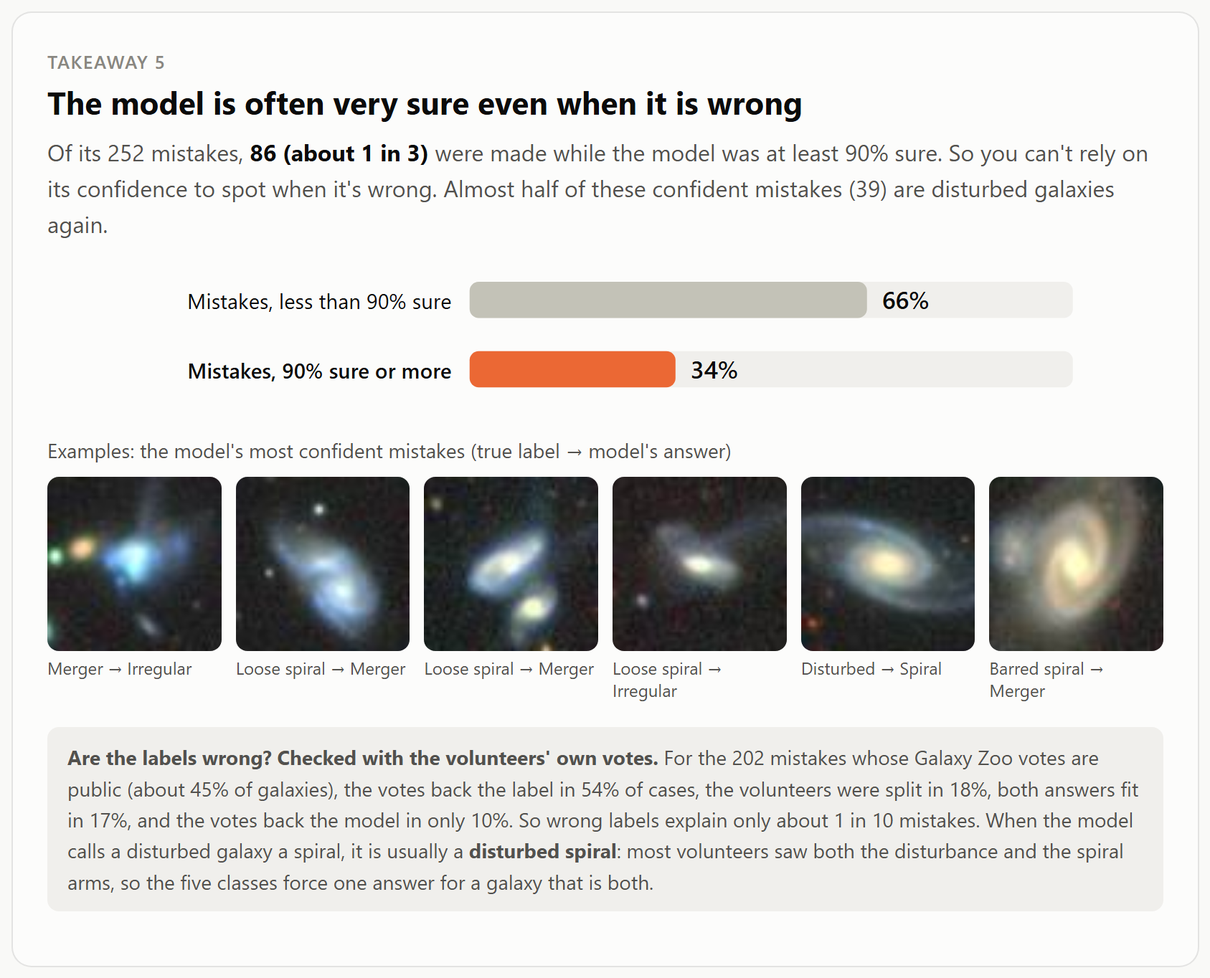
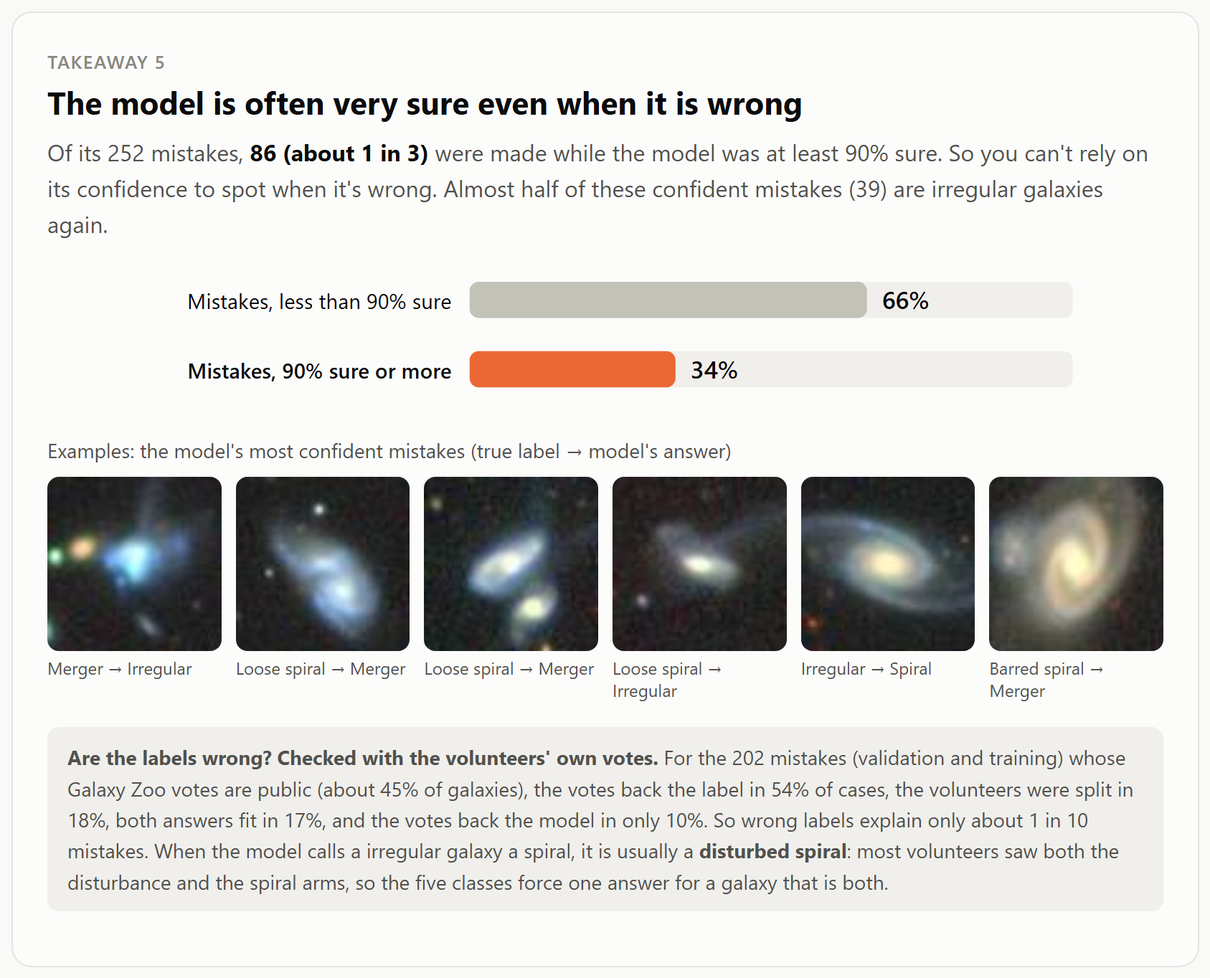
disturbed to irregular changes

Changed region(s): [[0.0616, 0.7698, 0.9555, 0.9238], [0.7706, 0.1848, 0.9247, 0.2155], [0.6473, 0.6774, 0.7706, 0.7082]]

diff --git a/ai_aided/vis/findings.html b/ai_aided/vis/findings.html
@@ -79,10 +79,10 @@ svg text { fill: var(--ink-2); font-size: 14px; }
 
   <section class="card">
     <div class="num">Takeaway 1</div>
-    <h2>The model often fails to recognise disturbed galaxies</h2>
+    <h2>The model often fails to recognise irregular galaxies</h2>
     <p class="say" id="t1-say"></p>
     <div id="t1-chart"></div>
-    <p class="ex-t">Examples: disturbed galaxies the model got wrong</p>
+    <p class="ex-t">Examples: irregular galaxies the model got wrong</p>
     <div class="ex" id="t1-ex"></div>
   </section>
 
@@ -99,10 +99,10 @@ svg text { fill: var(--ink-2); font-size: 14px; }
 
   <section class="card">
     <div class="num">Takeaway 3 <span class="tag">tested by editing images</span></div>
-    <h2>Small, harmless changes flip the answer for disturbed galaxies</h2>
+    <h2>Small, harmless changes flip the answer for irregular galaxies</h2>
     <p class="say" id="t3-say"></p>
     <div id="t3-chart"></div>
-    <p class="ex-t">Examples: the same disturbed galaxy, just rotated by 90°</p>
+    <p class="ex-t">Examples: the same irregular galaxy, just rotated by 90°</p>
     <div class="pairs" id="t3-ex"></div>
   </section>
 
@@ -120,7 +120,7 @@ svg text { fill: var(--ink-2); font-size: 14px; }
     <div id="t5-chart"></div>
     <p class="ex-t">Examples: the model's most confident mistakes (true label → model's answer)</p>
     <div class="ex" id="t5-ex"></div>
-    <p class="note"><b>Are the labels wrong? Checked with the volunteers' own votes.</b> For the 202 mistakes (validation and training) whose Galaxy Zoo votes are public (about 45% of galaxies), the votes back the label in 54% of cases, the volunteers were split in 18%, both answers fit in 17%, and the votes back the model in only 10%. So wrong labels explain only about 1 in 10 mistakes. When the model calls a disturbed galaxy a spiral, it is usually a <b>disturbed spiral</b>: most volunteers saw both the disturbance and the spiral arms, so the five classes force one answer for a galaxy that is both.</p>
+    <p class="note"><b>Are the labels wrong? Checked with the volunteers' own votes.</b> For the 202 mistakes (validation and training) whose Galaxy Zoo votes are public (about 45% of galaxies), the votes back the label in 54% of cases, the volunteers were split in 18%, both answers fit in 17%, and the votes back the model in only 10%. So wrong labels explain only about 1 in 10 mistakes. When the model calls a irregular galaxy a spiral, it is usually a <b>disturbed spiral</b>: most volunteers saw both the disturbance and the spiral arms, so the five classes force one answer for a galaxy that is both.</p>
   </section>
 
   <section class="card">
@@ -140,7 +140,7 @@ svg text { fill: var(--ink-2); font-size: 14px; }
     <h2>What does <i>not</i> confuse the model</h2>
     <p class="say">Some things looked like they might matter, so we changed them on purpose. The answers barely moved.</p>
     <div class="nope" id="t6"></div>
-    <p class="note">Colour is the important one: in the real images, red disturbed galaxies <i>are</i> called Elliptical far more often than blue ones, so it looked like the model judges by colour. The test shows it doesn't. The volunteers do call red disturbed galaxies “smooth” more often than blue ones (37% vs 28%), so a smoother shape, not the colour itself, is the likely reason.</p>
+    <p class="note">Colour is the important one: in the real images, red irregular galaxies <i>are</i> called Elliptical far more often than blue ones, so it looked like the model judges by colour. The test shows it doesn't. The volunteers do call red irregular galaxies “smooth” more often than blue ones (37% vs 28%), so a smoother shape, not the colour itself, is the likely reason.</p>
   </section>
 
   <p class="foot">Data: Galaxy10 DECals validation images (not used for training). "Tested by editing images": we changed one thing in the images (size, blur, colour, shape, rotation, position or neighbours) and ran the model again on the same galaxies (705 and 1,115 galaxies in two tests). Numbers are calculated live from the model's predictions. For details, open explorer.html.</p>
@@ -160,7 +160,7 @@ const BY = new Map(R.map(d => [d.idx, d]));
 const ok = d => d.pred === d.l5, $ = id => document.getElementById(id);
 const pct = v => { const p = 100 * v; return (p > 0 && p < 2 ? p.toFixed(1) : Math.round(p)) + "%"; };
 const share = (arr, f) => arr.length ? arr.filter(f).length / arr.length : 0;
-const NICE = { 0: "Disturbed", 1: "Merger", 2: "Round elliptical", 3: "Elliptical", 4: "Cigar elliptical", 5: "Barred spiral",
+const NICE = { 0: "Irregular", 1: "Merger", 2: "Round elliptical", 3: "Elliptical", 4: "Cigar elliptical", 5: "Barred spiral",
   6: "Spiral", 7: "Loose spiral", 8: "Edge-on disk", 9: "Edge-on disk" };
 
 // edited-image tests: one object per galaxy, {edit: prediction}
@@ -195,16 +195,16 @@ function bars(id, rows, max = 1) {
   $(id).innerHTML = s + "</svg>";
 }
 
-$("lede").textContent = `We tested the galaxy classifier on ${VAL.length.toLocaleString()} galaxy images it had not been trained on. Overall it is right ${pct(share(VAL, ok))} of the time, the same as the author reports. But that single number hides seven important things about how it behaves.`;
+$("lede").textContent = `We tested the galaxy classifier on ${VAL.length.toLocaleString()} galaxy images it had not been trained on. Overall it is right ${pct(share(VAL, ok))} of the time, the same as the author reports. (The model's class “Irregular” is called “Disturbed” in the original Galaxy10 labels.) But that single number hides seven important things about how it behaves.`;
 
-// ---------- 1: disturbed galaxies ----------
+// ---------- 1: irregular galaxies ----------
 {
   const dist = VAL.filter(d => d.l10 === 0), rest = VAL.filter(d => d.l10 !== 0);
   bars("t1-chart", [
     { label: "All other galaxy types", v: share(rest, ok) },
-    { label: "Disturbed galaxies", v: share(dist, ok), hi: true },
+    { label: "Irregular galaxies", v: share(dist, ok), hi: true },
   ]);
-  $("t1-say").innerHTML = `It recognises <b>only ${pct(share(dist, ok))}</b> of disturbed galaxies, compared with ${pct(share(rest, ok))} for all other types. When it gets them wrong, it mostly calls them <b>Spiral (${pct(share(dist, d => d.pred === 0))})</b> or <b>Elliptical (${pct(share(dist, d => d.pred === 1))})</b>.`;
+  $("t1-say").innerHTML = `It recognises <b>only ${pct(share(dist, ok))}</b> of irregular galaxies, compared with ${pct(share(rest, ok))} for all other types. When it gets them wrong, it mostly calls them <b>Spiral (${pct(share(dist, d => d.pred === 0))})</b> or <b>Elliptical (${pct(share(dist, d => d.pred === 1))})</b>.`;
   const wrong = dist.filter(d => !ok(d)).sort((a, b) => b.conf - a.conf);
   examples("t1-ex", [...wrong.filter(d => d.pred === 0).slice(0, 3), ...wrong.filter(d => d.pred === 1).slice(0, 3)], d => `called ${C5[d.pred]}`);
 }
@@ -218,7 +218,7 @@ $("lede").textContent = `We tested the galaxy classifier on ${VAL.length.toLocal
     { label: "Spirals, blurred (same size)", v: E(sp2, "blur"), hi: true },
   ], 0.5);
   const dist = VAL.filter(d => d.l10 === 0 && d.q[1] != null).sort((a, b) => a.q[1] - b.q[1]), cut = Math.round(dist.length * 0.4);
-  $("t2-say").innerHTML = `In the real images, small disturbed galaxies are called Elliptical much more often than large ones (${pct(share(dist.slice(0, cut), d => d.pred === 1))} vs ${pct(share(dist.slice(cut), d => d.pred === 1))}). To find the cause, we edited the same spirals. <b>Shrinking</b> them, or just <b>blurring</b> them at the same size, makes the model call them Elliptical far more often (chart). So the cause is the <b>loss of detail</b>, not the size itself. Real ellipticals stay ellipticals (${pct(share(of(T1, 1), t => t.shrink === 1))} after shrinking).`;
+  $("t2-say").innerHTML = `In the real images, small irregular galaxies are called Elliptical much more often than large ones (${pct(share(dist.slice(0, cut), d => d.pred === 1))} vs ${pct(share(dist.slice(cut), d => d.pred === 1))}). To find the cause, we edited the same spirals. <b>Shrinking</b> them, or just <b>blurring</b> them at the same size, makes the model call them Elliptical far more often (chart). So the cause is the <b>loss of detail</b>, not the size itself. Real ellipticals stay ellipticals (${pct(share(of(T1, 1), t => t.shrink === 1))} after shrinking).`;
   pairs("t2-ex1", "shrink", "unchanged", "shrunk");
   pairs("t2-ex2", "blur", "unchanged", "blurred");
 }
@@ -229,13 +229,13 @@ $("lede").textContent = `We tested the galaxy classifier on ${VAL.length.toLocal
   const ch = (arr, k) => share(arr, t => t[k] !== t.original);
   bars("t3-chart", [
     { label: "Rotated 90° · spirals & ellipticals", v: ch(others1, "rot90") },
-    { label: "Rotated 90° · disturbed", v: ch(of(T1, 3), "rot90"), hi: true, gap: true },
+    { label: "Rotated 90° · irregular", v: ch(of(T1, 3), "rot90"), hi: true, gap: true },
     { label: "Moved off-centre · spirals & ellipticals", v: ch(others2, "shift") },
-    { label: "Moved off-centre · disturbed", v: ch(of(T2, 3), "shift"), hi: true, gap: true },
+    { label: "Moved off-centre · irregular", v: ch(of(T2, 3), "shift"), hi: true, gap: true },
     { label: "Blurred · spirals & ellipticals", v: ch(others2, "blur") },
-    { label: "Blurred · disturbed", v: ch(of(T2, 3), "blur"), hi: true },
+    { label: "Blurred · irregular", v: ch(of(T2, 3), "blur"), hi: true },
   ], 0.5);
-  $("t3-say").innerHTML = `A galaxy is still the same galaxy when the picture is rotated or moved, and the model was even trained on rotated images. Still, these small changes <b>flip the answer for many disturbed galaxies</b>: ${pct(ch(of(T1, 3), "rot90"))} after rotating and ${pct(ch(of(T2, 3), "shift"))} after moving, far more than for spirals and ellipticals (chart: share of answers that change). For disturbed galaxies the model is unsure and close to a tipping point: the ones whose answer flips when rotated were already unsure (median confidence 70%, against 94% for those that stay the same).`;
+  $("t3-say").innerHTML = `A galaxy is still the same galaxy when the picture is rotated or moved, and the model was even trained on rotated images. Still, these small changes <b>flip the answer for many irregular galaxies</b>: ${pct(ch(of(T1, 3), "rot90"))} after rotating and ${pct(ch(of(T2, 3), "shift"))} after moving, far more than for spirals and ellipticals (chart: share of answers that change). For irregular galaxies the model is unsure and close to a tipping point: the ones whose answer flips when rotated were already unsure (median confidence 70%, against 94% for those that stay the same).`;
   pairs("t3-ex", "rotate", "original", "rotated 90°");
 }
 
@@ -244,14 +244,14 @@ $("lede").textContent = `We tested the galaxy classifier on ${VAL.length.toLocal
   const acc = (arr, f) => share(arr.filter(f), ok);
   const rare = [0, 4], common = d => !rare.includes(d.l10);
   bars("t4-chart", [
-    { label: "Disturbed · training images", v: acc(TR, d => d.l10 === 0) },
-    { label: "Disturbed · new images", v: acc(VAL, d => d.l10 === 0), hi: true, gap: true },
+    { label: "Irregular · training images", v: acc(TR, d => d.l10 === 0) },
+    { label: "Irregular · new images", v: acc(VAL, d => d.l10 === 0), hi: true, gap: true },
     { label: "Cigar ellipticals · training images", v: acc(TR, d => d.l10 === 4) },
     { label: "Cigar ellipticals · new images", v: acc(VAL, d => d.l10 === 4), hi: true, gap: true },
     { label: "All other types · training images", v: acc(TR, common) },
     { label: "All other types · new images", v: acc(VAL, common) },
   ]);
-  $("t4-say").innerHTML = `For most galaxy types, the model does about as well on new images as on the images it was trained on. For the two <b>rarest</b> types it doesn't: disturbed galaxies drop from <b>${pct(acc(TR, d => d.l10 === 0))} to ${pct(acc(VAL, d => d.l10 === 0))}</b>, cigar-shaped ellipticals from ${pct(acc(TR, d => d.l10 === 4))} to ${pct(acc(VAL, d => d.l10 === 4))} (chart: share correct). This looks like memorisation: the model seems to have remembered the few examples it saw rather than learned what these galaxies look like. Their rarity may be one reason, but we can't prove that without retraining the model. Even on its training images it gets ${pct(1 - acc(TR, d => d.l10 === 0))} of disturbed galaxies wrong, and the volunteers' votes show why: many of them are spirals that are also disturbed, so two answers fit.`;
+  $("t4-say").innerHTML = `For most galaxy types, the model does about as well on new images as on the images it was trained on. For the two <b>rarest</b> types it doesn't: irregular galaxies drop from <b>${pct(acc(TR, d => d.l10 === 0))} to ${pct(acc(VAL, d => d.l10 === 0))}</b>, cigar-shaped ellipticals from ${pct(acc(TR, d => d.l10 === 4))} to ${pct(acc(VAL, d => d.l10 === 4))} (chart: share correct). This looks like memorisation: the model seems to have remembered the few examples it saw rather than learned what these galaxies look like. Their rarity may be one reason, but we can't prove that without retraining the model. Even on its training images it gets ${pct(1 - acc(TR, d => d.l10 === 0))} of irregular galaxies wrong, and the volunteers' votes show why: many of them are spirals that are also disturbed, so two answers fit.`;
 }
 
 // ---------- 5: confident mistakes ----------
@@ -261,7 +261,7 @@ $("lede").textContent = `We tested the galaxy classifier on ${VAL.length.toLocal
     { label: "Mistakes, less than 90% sure", v: 1 - sure.length / wrong.length },
     { label: "Mistakes, 90% sure or more", v: sure.length / wrong.length, hi: true },
   ]);
-  $("t5-say").innerHTML = `Of its ${wrong.length} mistakes, <b>${sure.length} (about 1 in 3)</b> were made while the model was at least 90% sure. So you can't rely on its confidence to spot when it's wrong. Almost half of these confident mistakes (${sure.filter(d => d.l10 === 0).length}) are disturbed galaxies again.`;
+  $("t5-say").innerHTML = `Of its ${wrong.length} mistakes, <b>${sure.length} (about 1 in 3)</b> were made while the model was at least 90% sure. So you can't rely on its confidence to spot when it's wrong. Almost half of these confident mistakes (${sure.filter(d => d.l10 === 0).length}) are irregular galaxies again.`;
   examples("t5-ex", sure.sort((a, b) => b.conf - a.conf).slice(0, 6), d => `${NICE[d.l10]} → ${C5[d.pred]}`);
 }
 
@@ -281,8 +281,8 @@ $("lede").textContent = `We tested the galaxy classifier on ${VAL.length.toLocal
   });
   $("m-map").innerHTML = s + "</svg>";
   $("m-legend").innerHTML = `<span><i style="background:var(--base)"></i>correct</span><span><i style="background:var(--hi)"></i>mistake</span><span>Each dot is one galaxy. Galaxies close together got similar answers from the model.</span>`;
-  const nice = n => n.kind === "bridge" ? "Torn between " + n.label.replace(" ↔ ", " and ").replace("Irregular", "Disturbed")
-    : n.label.replace(" Irregular hidden among Spiral", " are disturbed galaxies hidden among spirals");
+  const nice = n => n.kind === "bridge" ? "Torn between " + n.label.replace(" ↔ ", " and ")
+    : n.label.replace(" Irregular hidden among Spiral", " are irregular galaxies hidden among spirals");
   const nums = kind => MD.notes.map((n, i) => n.kind === kind ? i + 1 : null).filter(Boolean).join(", ");
   $("m-regions").innerHTML = MD.notes.map((n, i) => { const r = regs.get(n.id);
     return `<div><span class="badge">${i + 1}</span><span><b>${nice(n)}</b><br>${r.n} galaxies · ${pct(r.err)} wrong · model ${pct(n.conf)} sure on average</span></div>`; }).join("");
@@ -292,10 +292,10 @@ $("lede").textContent = `We tested the galaxy classifier on ${VAL.length.toLocal
   const pairCount = {};
   unsure.forEach(d => { const o = d.p.map((v, i) => [v, i]).sort((a, b) => b[0] - a[0]); const k = [o[0][1], o[1][1]].sort().map(i => C5[i]).join(" / "); pairCount[k] = (pairCount[k] || 0) + 1; });
   const top = Object.entries(pairCount).sort((a, b) => b[1] - a[1]).slice(0, 5);
-  bars("m-pairs", top.map(([k, n], i) => ({ label: k.replace("Irregular", "Disturbed"), v: n / unsure.length, hi: k.includes("Spiral") })), 0.3);
+  bars("m-pairs", top.map(([k, n], i) => ({ label: k, v: n / unsure.length, hi: k.includes("Spiral") })), 0.3);
   const wrong = pts.filter(d => !ok(d));
-  $("m-say").innerHTML = `This map places every galaxy by the model's answer: galaxies close together got similar answers. Most of the map is made of <b>dense islands where the model is completely sure and almost never wrong</b>. The mistakes (orange) sit in two kinds of places: on <b>bridges between two islands</b>, where the model is torn between two classes (${nums("bridge")}), and in <b>groups hidden inside the Spiral island</b>, where the model is sure but about a quarter of the galaxies are actually disturbed (${nums("hidden")}).`;
-  $("m-note").innerHTML = `<b>What the map tells us.</b> When the model is unsure, it is almost never confused in general: in ${pct(share(unsure, d => top2(d) > 0.9))} of unsure cases, nearly all its doubt is between exactly <b>two</b> classes, and Spiral is part of most of these pairs. The bridges are genuinely in-between galaxies: on the Spiral ↔ Edge-on bridge, true spirals and true edge-on disks are equally flat, the volunteers themselves were split on “edge-on” (27%, against 0–5% elsewhere on the map), and the model's mistakes go both ways equally. These are tilted disks. In the hidden groups, the "disturbed" galaxies look like the real spirals around them in colour, size and shape; too few of them have volunteer votes to say why the model is wrong there (7 mistakes, and for 5 of them the votes back the label). We rebuilt the map from three other random starting layouts: the same bridges and the hidden group came back, and crowdedness still made no difference, although the exact number of regions changed (38–46). Being in a sparse or crowded part of the map does <b>not</b> predict mistakes (${pct(MD.density.sparsest)} vs ${pct(MD.density.densest)} wrong): about half the mistakes (${pct(share(wrong, d => d.conf < 0.8))}) are unsure ones on bridges, the other half are confident ones inside islands.`;
+  $("m-say").innerHTML = `This map places every galaxy by the model's answer: galaxies close together got similar answers. Most of the map is made of <b>dense islands where the model is completely sure and almost never wrong</b>. The mistakes (orange) sit in two kinds of places: on <b>bridges between two islands</b>, where the model is torn between two classes (${nums("bridge")}), and in <b>groups hidden inside the Spiral island</b>, where the model is sure but about a quarter of the galaxies are actually irregular (${nums("hidden")}).`;
+  $("m-note").innerHTML = `<b>What the map tells us.</b> When the model is unsure, it is almost never confused in general: in ${pct(share(unsure, d => top2(d) > 0.9))} of unsure cases, nearly all its doubt is between exactly <b>two</b> classes, and Spiral is part of most of these pairs. The bridges are genuinely in-between galaxies: on the Spiral ↔ Edge-on bridge, true spirals and true edge-on disks are equally flat, the volunteers themselves were split on “edge-on” (27%, against 0–5% elsewhere on the map), and the model's mistakes go both ways equally. These are tilted disks. In the hidden groups, the "irregular" galaxies look like the real spirals around them in colour, size and shape; too few of them have volunteer votes to say why the model is wrong there (7 mistakes, and for 5 of them the votes back the label). We rebuilt the map from three other random starting layouts: the same bridges and the hidden group came back, and crowdedness still made no difference, although the exact number of regions changed (38–46). Being in a sparse or crowded part of the map does <b>not</b> predict mistakes (${pct(MD.density.sparsest)} vs ${pct(MD.density.densest)} wrong): about half the mistakes (${pct(share(wrong, d => d.conf < 0.8))}) are unsure ones on bridges, the other half are confident ones inside islands.`;
 }
 
 // ---------- 7: what does not matter ----------
@@ -306,7 +306,7 @@ $("lede").textContent = `We tested the galaxy classifier on ${VAL.length.toLocal
   const round = T2.filter(t => t.d.l10 === 2), sp = of(T2, 0), mer = of(T2, 4);
   const z = VAL.filter(d => d.q[0] != null).sort((a, b) => a.q[0] - b.q[0]), f5 = Math.round(z.length / 5);
   const rows = [
-    ["Colour", "Red disturbed galaxies made bluer · called Elliptical", share(red, t => t.original === 1), share(red, t => t.bluer === 1)],
+    ["Colour", "Red irregular galaxies made bluer · called Elliptical", share(red, t => t.original === 1), share(red, t => t.bluer === 1)],
     ["Shape", "Round ellipticals squashed flat · called Edge-on", share(round, t => t.original === 2), share(round, t => t.squash === 2)],
     ["Neighbours", "Small galaxy added next to spirals · called Merger", share(sp, t => t.original === 4), share(sp, t => t.add_neighbour === 4)],
     ["Surroundings", "Surroundings removed around mergers · still Merger", share(mer, t => t.original === 4), share(mer, t => t.no_context === 4)],

diff --git a/ai_aided/vis/explorer.html b/ai_aided/vis/explorer.html
@@ -118,7 +118,7 @@ select { font: inherit; font-size: 12.5px; color: var(--ink); background: var(--
     <div><span class="step">1</span><b>Pick a group of galaxies.</b> Click a square in the table of answers (for example "true Irregular, model says Spiral"), or use the "All mistakes" button.</div>
     <div><span class="step">2</span><b>See where they are.</b> The selected galaxies light up on the map and appear as pictures in the gallery at the bottom.</div>
     <div><span class="step">3</span><b>Click a picture</b> to see how sure the model was about each class.</div>
-    <p class="guide-note">The model has 5 classes: Spiral, Elliptical, Edge-on Disk, Irregular (also called "disturbed" galaxies) and Merger.</p>
+    <p class="guide-note">The model has 5 classes: Spiral, Elliptical, Edge-on Disk, Irregular (called "Disturbed" in the original 10 Galaxy10 types) and Merger.</p>
   </div>
 
   <div class="filters" role="toolbar" aria-label="Filters">

diff --git a/ai_aided/report_phase1.md b/ai_aided/report_phase1.md
@@ -2,7 +2,7 @@
 
 ## 1. Model, data and approach
 
-**Model.** [zev-walker/astrovision-advanced](https://huggingface.co/zev-walker/astrovision-advanced) is a Zoobot (ConvNeXt-Nano) image classifier. It was fine-tuned on Galaxy10 DECals and sorts galaxy images into five classes: Spiral, Elliptical, Edge-on Disk, Irregular (disturbed galaxies) and Merger. The author reports a single number: 92.9% validation accuracy.
+**Model.** [zev-walker/astrovision-advanced](https://huggingface.co/zev-walker/astrovision-advanced) is a Zoobot (ConvNeXt-Nano) image classifier. It was fine-tuned on Galaxy10 DECals and sorts galaxy images into five classes: Spiral, Elliptical, Edge-on Disk, Irregular and Merger. (The Irregular class is called "Disturbed Galaxies" in the original Galaxy10 labels; we use the model's name.). The author reports a single number: 92.9% validation accuracy.
 
 **Data.** We used the established Galaxy10 DECals benchmark (17,736 images). We reproduced the author's exact train/validation split (random 20%, seed 42). The findings are based on the **3,547 validation images**, which the model was not trained on. The 14,189 training images serve as a comparison, and are also included in the volunteer-vote check (Takeaway 5) to have more mistakes with votes. Our reproduction gives exactly **92.9%** accuracy, which confirms that our setup matches the author's.
 
@@ -19,52 +19,52 @@
 
 ## 2. Findings
 
-### Takeaway 1: The model often fails to recognise disturbed galaxies
+### Takeaway 1: The model often fails to recognise irregular galaxies
 
 ![Takeaway 1](figures/takeaway_1.png)
 
-Only **56%** of disturbed galaxies are recognised, compared with **95%** for all other types. The errors are not random: 24% are called Spiral and 18% Elliptical. Disturbed is also one of the rarest classes in the training data (876 training images, compared with 1,443 to 5,200 for the other four classes).
+Only **56%** of irregular galaxies are recognised, compared with **95%** for all other types. The errors are not random: 24% are called Spiral and 18% Elliptical. Irregular is also one of the rarest classes in the training data (876 training images, compared with 1,443 to 5,200 for the other four classes).
 
 ### Takeaway 2: When a galaxy loses detail, the model calls it an elliptical
 
 ![Takeaway 2](figures/takeaway_2.png)
 
-In the real images, small disturbed galaxies are called Elliptical much more often than larger ones (35% vs 6%). To find the cause, we edited 250 spirals.
+In the real images, small irregular galaxies are called Elliptical much more often than larger ones (35% vs 6%). To find the cause, we edited 250 spirals.
 - **Shrinking** them to half size raises "Elliptical" answers from 0.8% to **14%**.
 - **Blurring** them at the same size raises them to **10%**.
 - Real ellipticals are not affected (95% stay Elliptical).
 
-So the cause is the **loss of detail**, not size itself. Without visible arms or disturbed structure, a galaxy looks like a smooth blob, which is what the model has learned to call an elliptical.
+So the cause is the **loss of detail**, not size itself. Without visible arms or irregular structure, a galaxy looks like a smooth blob, which is what the model has learned to call an elliptical.
 
-### Takeaway 3: Small, harmless changes flip the answer for disturbed galaxies
+### Takeaway 3: Small, harmless changes flip the answer for irregular galaxies
 
 ![Takeaway 3](figures/takeaway_3.png)
 
-Rotating an image or moving the galaxy off-centre doesn't change what the galaxy is, and the model was even trained on rotated images. Still, these edits change the answer for disturbed galaxies far more often than for spirals and ellipticals:
+Rotating an image or moving the galaxy off-centre doesn't change what the galaxy is, and the model was even trained on rotated images. Still, these edits change the answer for irregular galaxies far more often than for spirals and ellipticals:
 
-| Edit | Disturbed galaxies | Spirals and ellipticals |
+| Edit | Irregular galaxies | Spirals and ellipticals |
 |---|---|---|
 | rotating 90° | **13%** | 4% |
 | moving off-centre | **17%** | 4% |
 | blurring | **38%** | 8% |
 
-The model's decisions for disturbed galaxies sit close to a tipping point: the galaxies whose answer flips when rotated were already unsure (median confidence 70%, against 94% for those whose answer stays the same).
+The model's decisions for irregular galaxies sit close to a tipping point: the galaxies whose answer flips when rotated were already unsure (median confidence 70%, against 94% for those whose answer stays the same).
 
 ### Takeaway 4: The rarest classes do much worse on new images than on training images
 
 ![Takeaway 4](figures/takeaway_4.png)
 
 For most types, accuracy on new images is close to accuracy on training images (98% vs 95%). For the two rarest types it is not:
-- disturbed galaxies drop from **74% to 56%**;
+- irregular galaxies drop from **74% to 56%**;
 - cigar-shaped ellipticals drop from **97% to 85%**.
 
-This looks like memorisation: the model seems to have remembered the few examples it saw rather than learned what these galaxies look like. Their rarity may be one reason, but proving that would require retraining the model, which is outside Phase I. Even on its own training images it gets 26% of disturbed galaxies wrong. The volunteers' votes (see Takeaway 5) explain why: many disturbed galaxies are spirals that are also disturbed, so two answers fit.
+This looks like memorisation: the model seems to have remembered the few examples it saw rather than learned what these galaxies look like. Their rarity may be one reason, but proving that would require retraining the model, which is outside Phase I. Even on its own training images it gets 26% of irregular galaxies wrong. The volunteers' votes (see Takeaway 5) explain why: many irregular galaxies are spirals that are also disturbed, so two answers fit.
 
 ### Takeaway 5: The model is often very sure even when it is wrong
 
 ![Takeaway 5](figures/takeaway_5.png)
 
-Averaged over all predictions, the model's confidence matches its accuracy well: the average calibration gap is 2%. But **86 of its 252 mistakes (34%)** are made with at least 90% confidence, so confidence cannot be used to catch them. 39 of these 86 are disturbed galaxies.
+Averaged over all predictions, the model's confidence matches its accuracy well: the average calibration gap is 2%. But **86 of its 252 mistakes (34%)** are made with at least 90% confidence, so confidence cannot be used to catch them. 39 of these 86 are irregular galaxies.
 
 **Are these mistakes really wrong labels?** Galaxy10's labels come from Galaxy Zoo volunteer votes, and the vote counts are public for about 45% of the galaxies (Galaxy Zoo DECaLS, Walmsley et al. 2022). For each of the model's 202 mistakes that have votes (82 on validation and 120 on training images), we compared how many volunteers supported the label with how many supported the model's answer:
 
@@ -75,7 +75,7 @@ Averaged over all predictions, the model's confidence matches its accuracy well:
 | both answers fit | 17% |
 | votes back the model, so the label looks wrong | 10% |
 
-So **wrong labels explain only about 1 in 10 mistakes.** For disturbed galaxies, no mistake had votes backing the model. Instead, when the model calls a disturbed galaxy a spiral, most volunteers had seen *both* the disturbance (68%) and spiral arms (51%). These are disturbed spirals: the five classes force one answer for a galaxy that is both.
+So **wrong labels explain only about 1 in 10 mistakes.** For irregular galaxies, no mistake had votes backing the model. Instead, when the model calls a irregular galaxy a spiral, most volunteers had seen *both* the disturbance (68%) and spiral arms (51%). These are disturbed spirals: the five classes force one answer for a galaxy that is both.
 
 An earlier visual impression, that about 16 of the 40 most confident mistakes looked mislabelled, overstated label noise. For the 15 of those 40 that have votes, only 3 have votes backing the model.
 
@@ -88,9 +88,9 @@ We clustered the map of the model's answers (HDBSCAN, about 40 regions). Most of
 1. **Bridges between two classes,** where the model hesitates between exactly two answers.
    - When the model is unsure, in **82%** of cases almost all its doubt is split between just two classes, and Spiral is part of most of these pairs.
    - The bridges contain genuinely in-between galaxies. On the Spiral ↔ Edge-on bridge, true spirals and true edge-on disks are equally flat, the volunteers themselves were split on "edge-on" (27%, against 0–5% elsewhere on the map), and the mistakes go both ways equally. These are tilted disks.
-2. **Groups hidden inside the Spiral island,** where the model is confident but about a quarter of the galaxies are labelled disturbed.
-   - These "disturbed" galaxies look like the spirals around them in colour, size and roundness. Too few have volunteer votes to say why the model is wrong here (7 mistakes; for 5 of them the votes back the label).
-   - The mix splits into separate sub-groups that behave differently: the same share of disturbed galaxies, but different confidence (69%, 83% and 90%).
+2. **Groups hidden inside the Spiral island,** where the model is confident but about a quarter of the galaxies are labelled irregular.
+   - These "irregular" galaxies look like the spirals around them in colour, size and roundness. Too few have volunteer votes to say why the model is wrong here (7 mistakes; for 5 of them the votes back the label).
+   - The mix splits into separate sub-groups that behave differently: the same share of irregular galaxies, but different confidence (69%, 83% and 90%).
 
 **Density does not explain the errors.** The sparsest and the densest fifth of the map have about the same error rate (8–9%). About half the mistakes are unsure ones on bridges; the other half are confident ones inside islands.
 
@@ -102,13 +102,13 @@ Several factors looked like they might matter, so we tested them directly. None 
 
 | Change | Measure | Before | After |
 |---|---|---|---|
-| Red disturbed galaxies made bluer | called Elliptical | 33% | 32% |
+| Red irregular galaxies made bluer | called Elliptical | 33% | 32% |
 | Round ellipticals squashed flat | called Edge-on | 0% | 1.5% |
 | Small galaxy added next to spirals | called Merger | 0.8% | 0.8% |
 | Surroundings removed around mergers | still called Merger | 91% | 90% |
 | Distance, nearest vs farthest fifth (real images) | answered correctly | 93% | 92% |
 
-Colour is the important case. In the real images, red disturbed galaxies *are* called Elliptical far more often than blue ones (33% vs 2%), so it looked as if the model judges by colour. The test shows it doesn't. The volunteers do call red disturbed galaxies "smooth" more often than blue ones (37% vs 28%), so a smoother shape, not the colour itself, is the likely reason. This shows why we tested patterns rather than only observing them.
+Colour is the important case. In the real images, red irregular galaxies *are* called Elliptical far more often than blue ones (33% vs 2%), so it looked as if the model judges by colour. The test shows it doesn't. The volunteers do call red irregular galaxies "smooth" more often than blue ones (37% vs 28%), so a smoother shape, not the colour itself, is the likely reason. This shows why we tested patterns rather than only observing them.
 
 ## 3. Confidence and limitations
 

diff --git a/ai_reflection_midpoint.md b/ai_reflection_midpoint.md
@@ -7,7 +7,8 @@ Zsófia Demjén-Nagy k12413807
 Livia Koch  k09956227
 
 
-Tool: Claude Code. Full record: [ai-interactions/ai-use-log.md](ai-interactions/ai-use-log.md).
+Tool: Claude Code, ChatGPT
+Full record: [ai-interactions/ai-use-log.md](ai-interactions/ai-use-log.md).
 
 ## What the AI did for us
 
@@ -35,9 +36,9 @@ Checking is quicker than building, but it is real work. It only works if you kno
 
 ## How confident are we in our conclusions, and why?
 
-- **High confidence:** the disturbed-galaxy blind spot, loss of detail causing "Elliptical" mistakes, the fragility of disturbed predictions, and the much weaker results for the rare classes on new images. These are based on hundreds of images, hold on both the training and validation data, and the causes were tested by editing images where possible. That rarity causes the weak rare classes, and that the gap is memorisation, are interpretations we could not test in Phase I.
+- **High confidence:** the irregular-galaxy blind spot, loss of detail causing "Elliptical" mistakes, the fragility of irregular predictions, and the much weaker results for the rare classes on new images. These are based on hundreds of images, hold on both the training and validation data, and the causes were tested by editing images where possible. That rarity causes the weak rare classes, and that the gap is memorisation, are interpretations we could not test in Phase I.
 - **Medium confidence:** the map regions. The same bridges and hidden group came back when we rebuilt the map from three other random starts, but the exact number of regions changed.
-- **Corrected by data:** the AI's visual impression suggested that many confident mistakes were wrong labels. The volunteers' own votes showed this explains only about 1 in 10 mistakes; most "disturbed" galaxies called Spiral are disturbed spirals, where both answers fit. A good example of why an AI's visual judgement needs checking against real data.
+- **Corrected by data:** the AI's visual impression suggested that many confident mistakes were wrong labels. The volunteers' own votes showed this explains only about 1 in 10 mistakes; most "irregular" galaxies called Spiral are disturbed spirals, where both answers fit. A good example of why an AI's visual judgement needs checking against real data.
 
 ## Strengths and limitations of AI assistance
 
@@ -54,7 +55,7 @@ Checking is quicker than building, but it is real work. It only works if you kno
 
 ## Points to compare with the human-only pair
 
-- Did they find the disturbed-galaxy blind spot and the size/detail effect, and did they test the cause or only observe it?
+- Did they find the irregular-galaxy blind spot and the size/detail effect, and did they test the cause or only observe it?
 - Did they also see the colour pattern, and did they conclude that the model uses colour?
 - How did their visualisations differ? Ours are interactive and linked, and include before/after image pairs.
 - Did they find something we missed because the AI steered us in a particular direction?

diff --git a/ai-interactions/ai-use-log.md b/ai-interactions/ai-use-log.md
@@ -274,6 +274,20 @@ Claude corrected the findings page, report, reflection, slides and figures.
 
 ---
 
+## 16. Changing "disturbed" back to the model's name "Irregular"
+
+**Prompts:** "change back the modified "disturbed" name to the original "irregular"
+
+**What happened:** The model's class is called "Irregular Galaxy". The same galaxies are called "Disturbed Galaxies" in the original Galaxy10 labels. Claude switched from "Irregular" to "disturbed" when it wrote the first findings page (§5), because that analysis used the original 10 Galaxy10 classes. It never told me or asked. Later it even converted the model's name to "Disturbed" on purpose to match the rest of the page (§11). As a result the documents used two names for the same class: the model, explorer and label-check page said "Irregular", while the findings page, report and slides said "disturbed".
+
+**What Claude did:** It changed the findings page, report, reflection, slides and figures back to "Irregular", and explained the name once ("called 'Disturbed' in the original Galaxy10 labels"). It kept "disturbed spirals" only in the volunteer-vote finding, where the original meaning matters. Earlier log entries were left unchanged, because they record what was written at the time.
+
+**What went wrong:** Claude's own conversion script also replaced the word inside the new explanation, so it read "Irregular is called Irregular". Claude caught this when checking the rendered page and fixed it.
+
+**My decision:** Accepted. We now use the model's own class names, which also makes the comparison with the human-only pair easier.
+
+---
+
 ## Which AI suggestions we accepted, changed or rejected
 
 | AI suggestion | Decision | Why |
@@ -322,6 +336,7 @@ The section numbers point to the log entries above.
 - Page text can contain hard-coded values that no longer match the data, such as region numbers written by hand (§11).
 - A result can be carried over to a subgroup where it was never checked. "The hidden groups are disturbed spirals" came from the overall vote result, and the few votes in those regions mostly back the label (§15).
 - The first version of the output is often correct but too detailed and full of jargon for the audience (§6, §12).
+- The AI can change terminology without saying so. It switched from the model's class name "Irregular" to the dataset's "Disturbed", so the documents used two names for the same class (§16).
 
 **Experiments and images**
 - Edited test images can contain artefacts (flat grey padding, square boxes, hard circle edges) that the model may react to instead of the real change (§7, §9).
